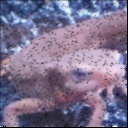
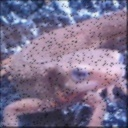
q9修正

Changed region(s): [[0.5312, 0.0, 1.0, 1.0], [0.0, 0.9688, 0.5, 1.0]]

diff --git a/source/q9.py b/source/q9.py
@@ -33,19 +33,20 @@ def _get_gaussian_value(mat):
 
 
 def apply_gaussian_filter(bgr_img):
-    b = _add_padding(bgr_img[:, :, 0].copy())
-    g = _add_padding(bgr_img[:, :, 1].copy())
-    r = _add_padding(bgr_img[:, :, 2].copy())
+    tmp_img = _add_padding(bgr_img)
+    b = tmp_img[:, :, 0].copy()
+    g = tmp_img[:, :, 1].copy()
+    r = tmp_img[:, :, 2].copy()
 
-    for h in range(1, bgr_img.shape[0] - 1):
-        for w in range(1, bgr_img.shape[1] - 1):
+    for h in range(1, tmp_img.shape[0] - 1):
+        for w in range(1, tmp_img.shape[1] - 1):
             b[h, w] = _get_gaussian_value(b[h - 1: h + 2, w - 1: w + 2])
             g[h, w] = _get_gaussian_value(g[h - 1: h + 2, w - 1: w + 2])
             r[h, w] = _get_gaussian_value(r[h - 1: h + 2, w - 1: w + 2])
 
-    out_img = np.dstack((_delete_padding(b), _delete_padding(g), _delete_padding(r)))
+    out_img = np.dstack((b, g, r))
 
-    return out_img
+    return _delete_padding(out_img)
 
 
 def _main():  # pragma: no cover
